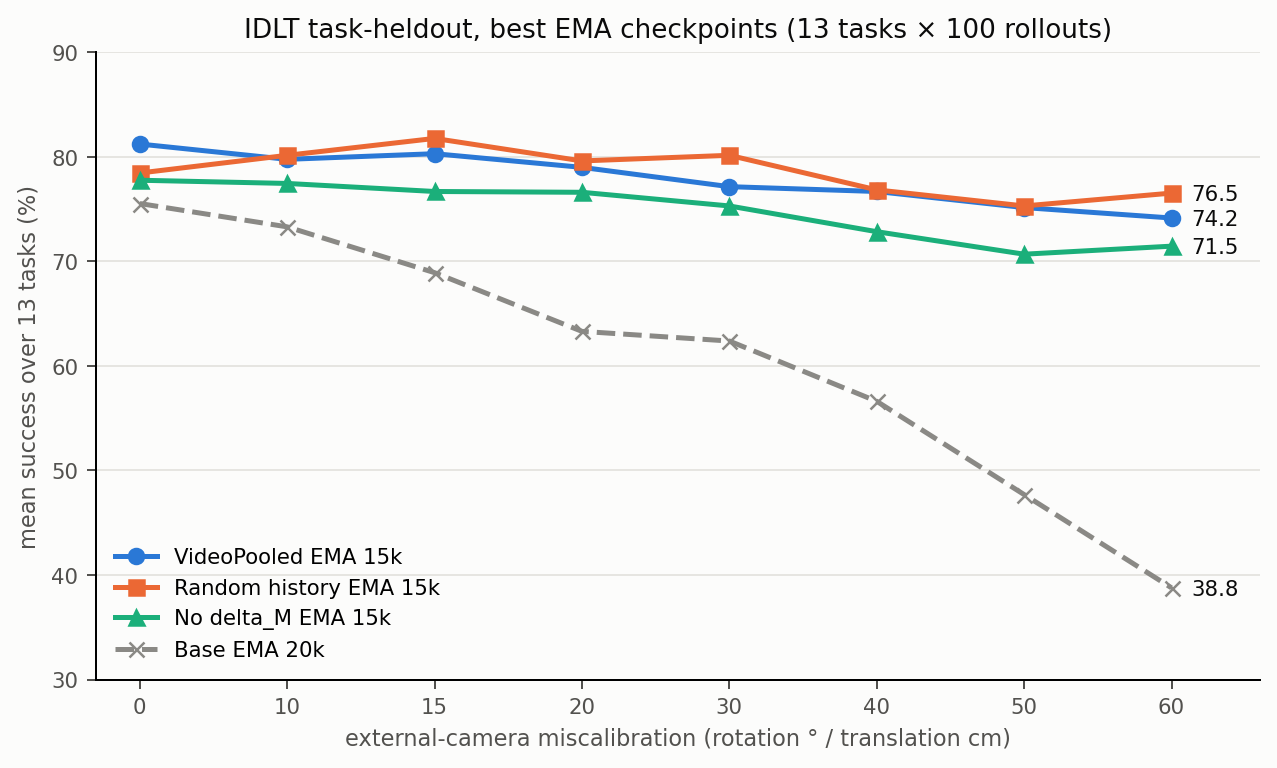
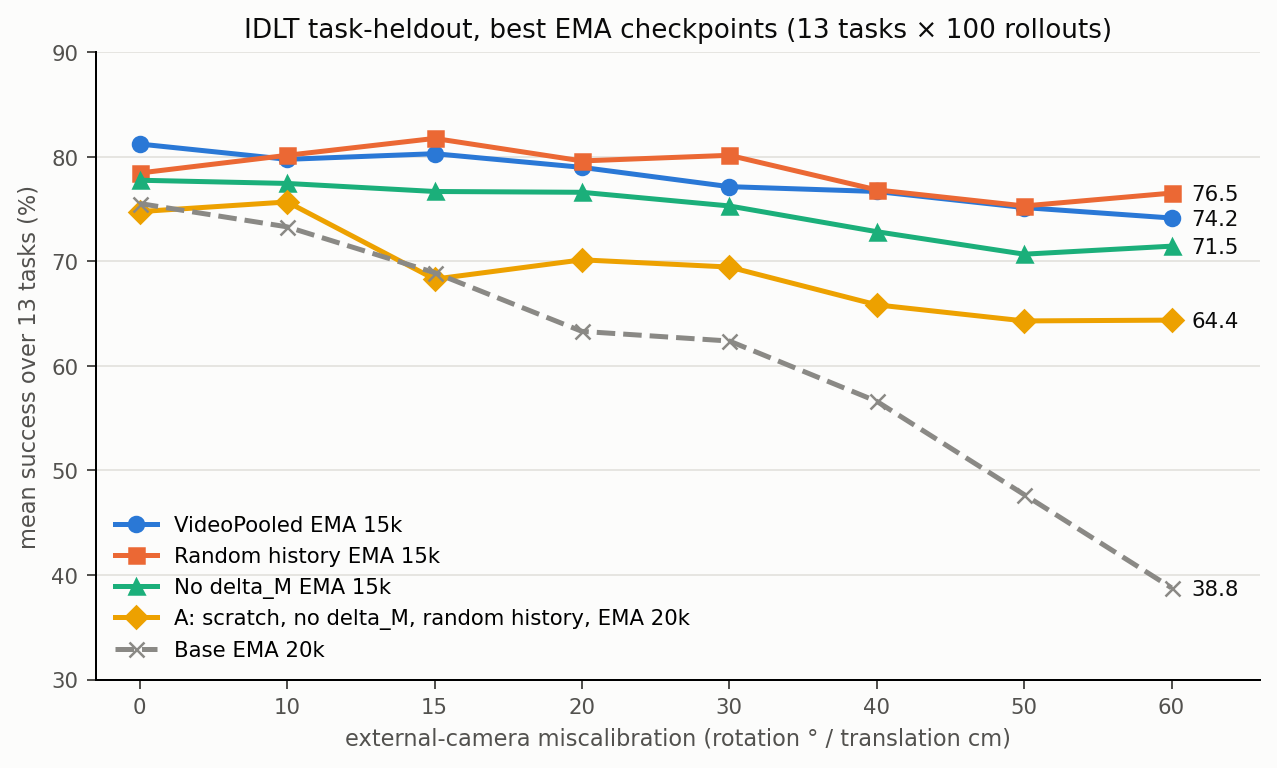
viz: add register-test A to the IDLT EMA task-mean chart

diff --git a/scripts/plot_ema_idlt_mean.py b/scripts/plot_ema_idlt_mean.py
@@ -12,10 +12,11 @@ from plot_ablation_per_task import GRID, IDLT_CAMPAIGNS, MUTED, R100, TEXT, load
 OUT = Path("docs/research/experiments/2026-09-29/figures")
 LEVELS = [("calibrated", "0"), ("e10deg-t10cm", "10"), ("e15deg-t15cm", "15"), ("e20deg-t20cm", "20"),
           ("e30deg-t30cm", "30"), ("e40deg-t40cm", "40"), ("e50deg-t50cm", "50"), ("e60deg-t60cm", "60")]
-# Validated categorical slots 1-3 for the history models; Base is the neutral reference.
+# Validated categorical slots 1-4 for the history models; Base is the neutral reference.
 MODELS = [("VideoPooled EMA 15k", "ema20k_vidpooled_s15k_ema", "#2a78d6", "o", "-"),
           ("Random history EMA 15k", "ema20k_randhist_s15k_ema", "#eb6834", "s", "-"),
           ("No delta_M EMA 15k", "ema20k_noviewalign_s15k_ema", "#1baf7a", "^", "-"),
+          ("A: scratch, no delta_M, random history, EMA 20k", "ema20k_regtest_a_s20k_ema", "#eda100", "D", "-"),
           ("Base EMA 20k", "ema20k_base_s20k_ema", "#8a8985", "x", "--")]
 
 

diff --git a/docs/research/experiments/2026-09-29/figures/README.md b/docs/research/experiments/2026-09-29/figures/README.md
@@ -9,7 +9,7 @@ They write to the **current week's** figures directory by default (`utils.plotti
 
 | Figure | Shows | Script |
 |---|---|---|
-| `ema_idlt_mean.{png,csv}` | IDLT task-mean vs miscalibration, best EMA checkpoints of VideoPooled, random history, no delta_M and Base | `scripts/plot_ema_idlt_mean.py` |
+| `ema_idlt_mean.{png,csv}` | IDLT task-mean vs miscalibration, best EMA checkpoints of VideoPooled, random history, no delta_M, A and Base | `scripts/plot_ema_idlt_mean.py` |
 | `ema_vs_original.png` | Task-mean success per model, original (solid) vs best-EMA checkpoint (dashed): IDLT held-out, G7 translation, G7 rotation | `scripts/plot_ema_vs_original.py` |
 | `ema_per_model_<model>.png` | One figure per model (`vidpooled`, `randhist`, `noviewalign`, `regtest_a`, `regtest_c`, `base`): every IDLT and G7 task, original vs EMA | `scripts/plot_ema_per_model.py` |
 | `ema20k_ladders_per_task.{png,csv}` | SBRS per task over the 20k fine-tunes, raw vs EMA weights; step 0 = starting checkpoint | `scripts/plot_ema_ladders.py` |
